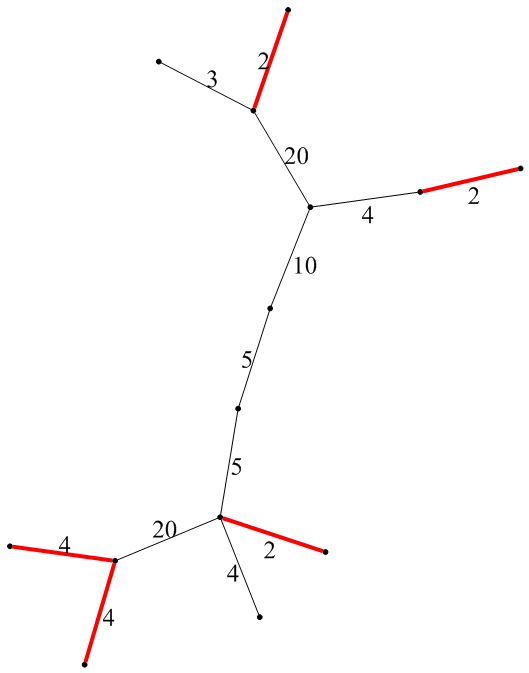
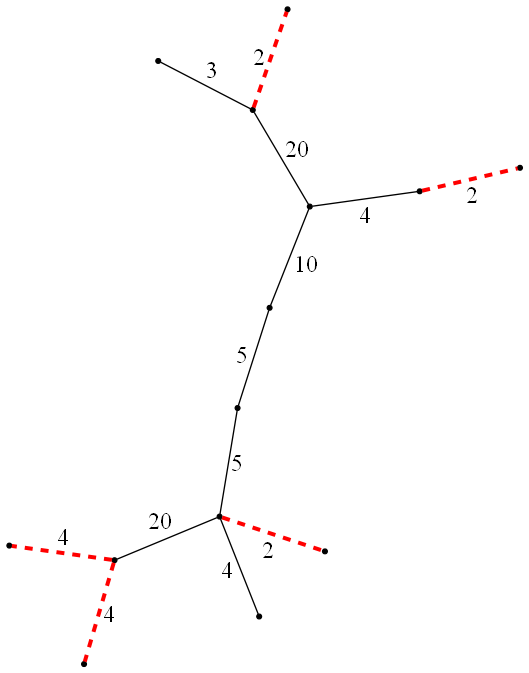
Do yet more on the greyscale figures.

diff --git a/waterfallpaper.tex b/waterfallpaper.tex
@@ -345,7 +345,7 @@ At the start of Marcotegui's method, the first input partition (produced from th
 	%
 	\subfigure[]
 	{\includegraphics[width=.3\linewidth]{segmentation-waterfall-marcotegui-localminimaelision.png}}%	
-\caption{Finding and contracting a graph's local minima for Marcotegui's method: (a) the graph from \cite{marcotegui05} and its local minima (drawn in red); (b) contracting/colouring the local minima (the edges to be contracted are drawn in blue).}
+\caption{Finding and contracting a graph's local minima for Marcotegui's method: (a) the graph from \cite{marcotegui05} and its local minima (drawn in red/dashed); (b) contracting/colouring the local minima (the edges to be contracted are drawn in blue).}
 \label{fig:segmentation-waterfall-marcotegui-localminima}
 \end{stusubfig}
 %---
